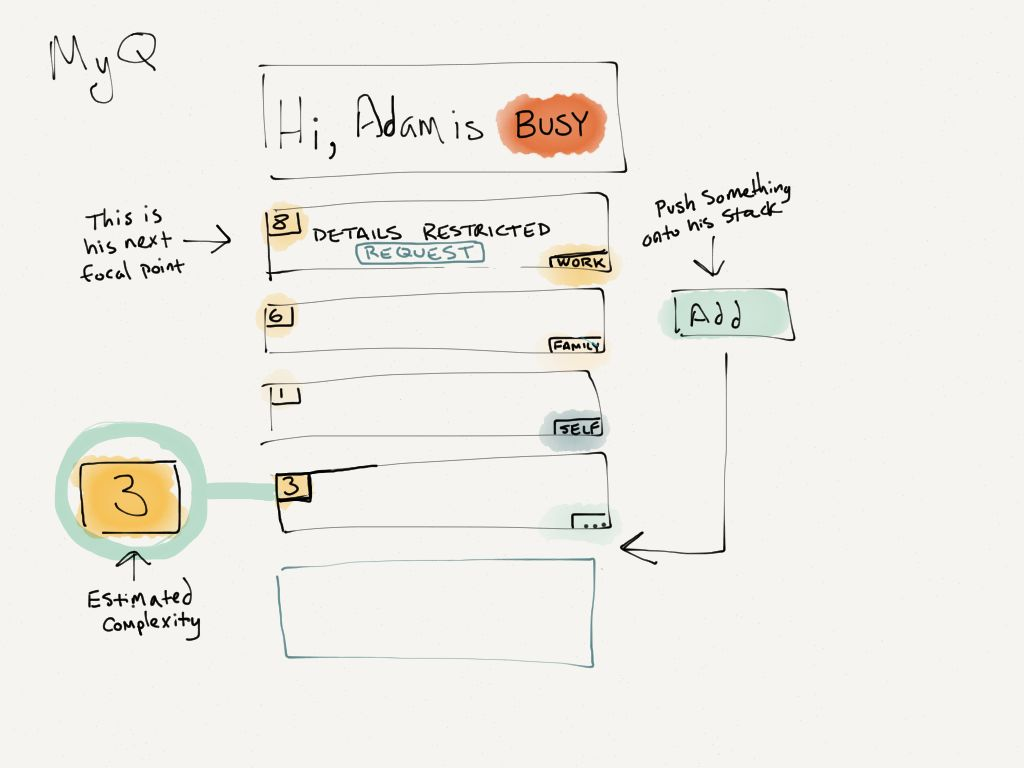
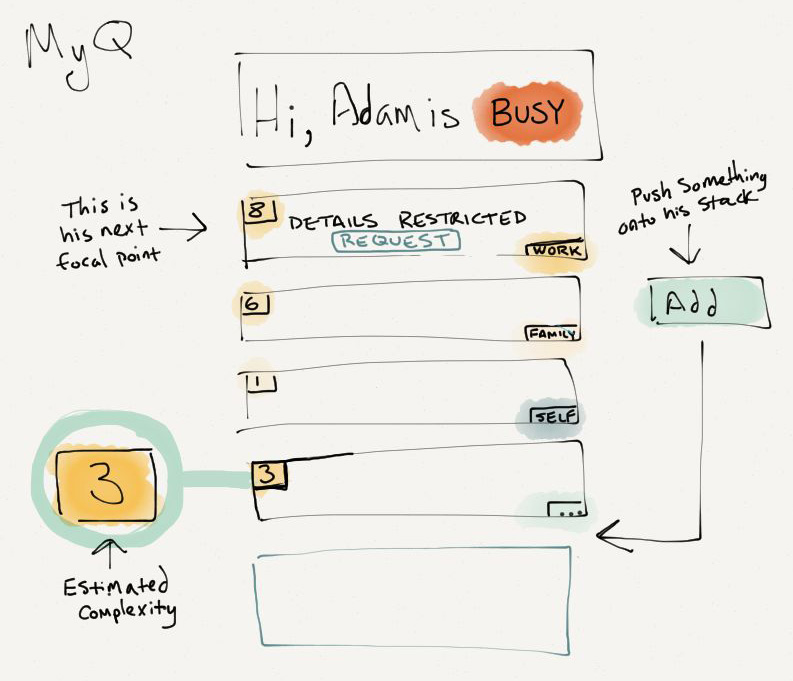
adding some notes on the mission and updating wireframe (cropped)

diff --git a/app/index.html b/app/index.html
@@ -52,10 +52,13 @@
         <hr class="featurette-divider">
 
         <div class="featurette">
-          <h2 class="featurette-heading">The Concept</h2>
-          <p class="lead">
-          <img src="images/wireframe_v1.jpg" />
+          <h2 class="featurette-heading">Why</h2>
+          <p class="lead">TODO lists aren't good enough.</p>
+          <p>If you are good at a lot of things, you are never short of things to do. Managing your queue can be tricky, especially if you have to balance different projects, schedules and delivery expectations across parts of your life: family, work, self-fulfillment, friends, etc.
           </p>
+          <p>This application provides a task queue management system, in which a user can tag tasks/projects with difficulty rating, where it fits in a life or daily plan and whether not it will actually get done. Unlike typical TODO lists or backlog management systems where items can fester and never get done, this tool stacks tasks in a live backlog, color coding them and placing them in such a way as to alert the user and any guest viewers when/if a task will reach the "doing it" state.</p>
+          <h3>Initial Napkin Sketch</h3>
+          <img src="images/wireframe_v1.jpg" />
         </div>
     </div>
 

diff --git a/README.md b/README.md
@@ -8,4 +8,18 @@
 
 ## Demo
 
+note: currently this is just docs.
+
 The dev branch of this codebase is continuously built and deployed with Travis on Github pages: [the realtimebacklog demo site](http://atomantic.github.io/realtimebacklog)
+
+
+## Why
+### TODO lists aren't good enough.
+
+If you are good at a lot of things, you are never short of things to do. Managing your queue can be tricky, especially if you have to balance different projects, schedules and delivery expectations across parts of your life: family, work, self-fulfillment, friends, etc.
+
+This application provides a task queue management system, in which a user can tag tasks/projects with difficulty rating, where it fits in a life or daily plan and whether not it will actually get done. Unlike typical TODO lists or backlog management systems where items can fester and never get done, this tool stacks tasks in a live backlog, color coding them and placing them in such a way as to alert the user and any guest viewers when/if a task will reach the "doing it" state.
+
+### Initial napkin sketch
+
+![sketch](https://raw.github.com/atomantic/realtimebacklog/dev/app/images/wireframe_v1.jpg)
